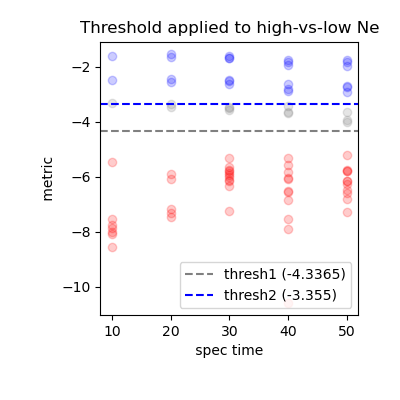
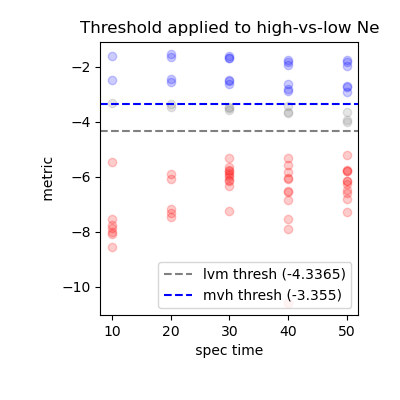
adding more data to the scripts repo

Changed region(s): [[0.39, 0.66, 0.87, 0.78], [0.81, 0.66, 0.87, 0.69], [0.72, 0.66, 0.75, 0.69]]

diff --git a/1KP_analysis/run_1KP_analysis.py b/1KP_analysis/run_1KP_analysis.py
@@ -26,7 +26,7 @@ class Test1KP(unittest.TestCase):
         lookup_file = "1KP-Sample-List.csv"
         sample_lookup = kp_reader.get_sample_code_lookup(lookup_file)
 
-        reanalyze=True
+        reanalyze=False
         use_only_curated_data=True
         bin_size=0.001
         right_most_ssd_peak = 0.08
@@ -118,21 +118,21 @@ def plot_histogram_of_metric3_over1KP(metrics_for_hist, output_folder):
     n, bins, patches = plt.hist(metrics_for_hist, bins=100, facecolor='b', alpha=0.25, label='histogram data')
     lmt=get_low_to_medium_threshold()
     mht=get_medium_to_high_threshold()
-    plt.axvline(x=lmt, color='cyan', linestyle='--', label="lvm disc. criteria"
-                  + " ({0})".format(round(lmt, 2)))
-    plt.axvline(x=mht, color='blue', linestyle='--', label="lvm disc. criteria"
-                  + " ({0})".format(round(mht, 2)))
+    plt.axvline(x=lmt, color='gray', linestyle='--', label="lvm thresh")
+    plt.axvline(x=mht, color='blue', linestyle='--', label="mvh thresh")
 
     for i in range(0,len(patches)):
         bini=bins[i]
         if bini <=lmt:
-            patches[i].set_facecolor('gray')
+            patches[i].set_facecolor('red')
         elif bini <= mht:
-            patches[i].set_facecolor('cyan')
+            patches[i].set_facecolor('gray')
         else:
             patches[i].set_facecolor('blue')
 
-    plt.title("Metric3 data for 1KP data")
+    plt.ylabel("# species")
+    plt.xlabel("high-vs-low Ne discrimination metric value")
+    plt.title("Histogram of classification of species from the 1KP dataset")
     plt.savefig(os.path.join(output_folder, "metric3_hist.png"))
     plt.clf()
     plt.close()
@@ -178,7 +178,7 @@ def analyze_metric_results(input_metrics_file, out_folder):
             return well_behaved_wgd_histograms
 
 def make_violin_plot(out_folder, plot_data, plot_name, plot_to_make):
-    colors_by_category = {"Low": "gray", "Medium": "cyan", "High": "blue"}
+    colors_by_category = {"Low": "red", "Medium": "gray", "High": "blue"}
     categories = colors_by_category.keys()
     data = []
     data_labels = []
@@ -195,28 +195,30 @@ def make_violin_plot(out_folder, plot_data, plot_name, plot_to_make):
                            )
     for pc, color in zip(plots['bodies'], colors):
         pc.set_facecolor(color)
-    ax.axhline(y=get_low_to_medium_threshold(), color='cyan', linestyle='--', label="lvm disc. criteria"
-                                                                                    + " ({0})".format(
-        round(get_low_to_medium_threshold(), 2)))
-    ax.axhline(y=get_medium_to_high_threshold(), color='blue', linestyle='--', label="lvm disc. criteria"
-                                                                                     + " ({0})".format(
-        round(get_medium_to_high_threshold(), 2)))
-    fig.suptitle(plot_to_make[2])
-    ax.set(xlabel=plot_to_make[1])
-    ax.set(ylabel="log(fit cm-mode)")
+    ax.axhline(y=get_low_to_medium_threshold(), color='gray', linestyle='--')
+    #           #label="lvm disc. criteria"
+    #           #                                                                     + " ({0})".format(
+    #    round(get_low_to_medium_threshold(), 2)))
+    ax.axhline(y=get_medium_to_high_threshold(), color='blue', linestyle='--')
+    #fig.suptitle(plot_to_make[2])
+    #ax.set(xlabel=plot_to_make[1])
+    #ax.set(ylabel="log(fit cm-mode)")
+    plt.xlabel("species by category")
+    plt.ylabel("high-vs-low Ne discrimination metric value")
+    plt.title("Violin plot of classification of species from the 1KP dataset ")
     ax.set_xticks(ticks)
     ax.set_xticklabels(data_labels)
-    plt.legend()
+    #plt.legend()
     violin_plot_file_path = os.path.join(out_folder, plot_name)
     plt.savefig(violin_plot_file_path)
     plt.close()
 
 
 def get_low_to_medium_threshold():
-    return -4.53
+    return -4.34
 
 def get_medium_to_high_threshold():
-    return -3.12
+    return -3.36
 
 def get_log_metric3(run_metrics):
 

diff --git a/results_viewer/linear_regression_models.py b/results_viewer/linear_regression_models.py
@@ -124,10 +124,10 @@ def plot_2_thresholds_against_data(colors3, data, linear_regression_threshold1, 
     for i in range(0, len(specs)):
         plt.scatter(specs[i], data[i], marker='o', c=colors3[i], alpha=alpha)
     ax.axhline(y=linear_regression_threshold1, color=linear_regression_threshold_color1, linestyle='--',
-               label="thresh1"
+               label="lvm thresh"
                      + " ({0})".format(round(linear_regression_threshold1, 4)))
     ax.axhline(y=linear_regression_threshold2, color=linear_regression_threshold_color2, linestyle='--',
-               label="thresh2"
+               label="mvh thresh"
                      + " ({0})".format(round(linear_regression_threshold2, 4)))
     ax.set(xlabel=" spec time ")
     ax.set(ylabel=" metric ")
